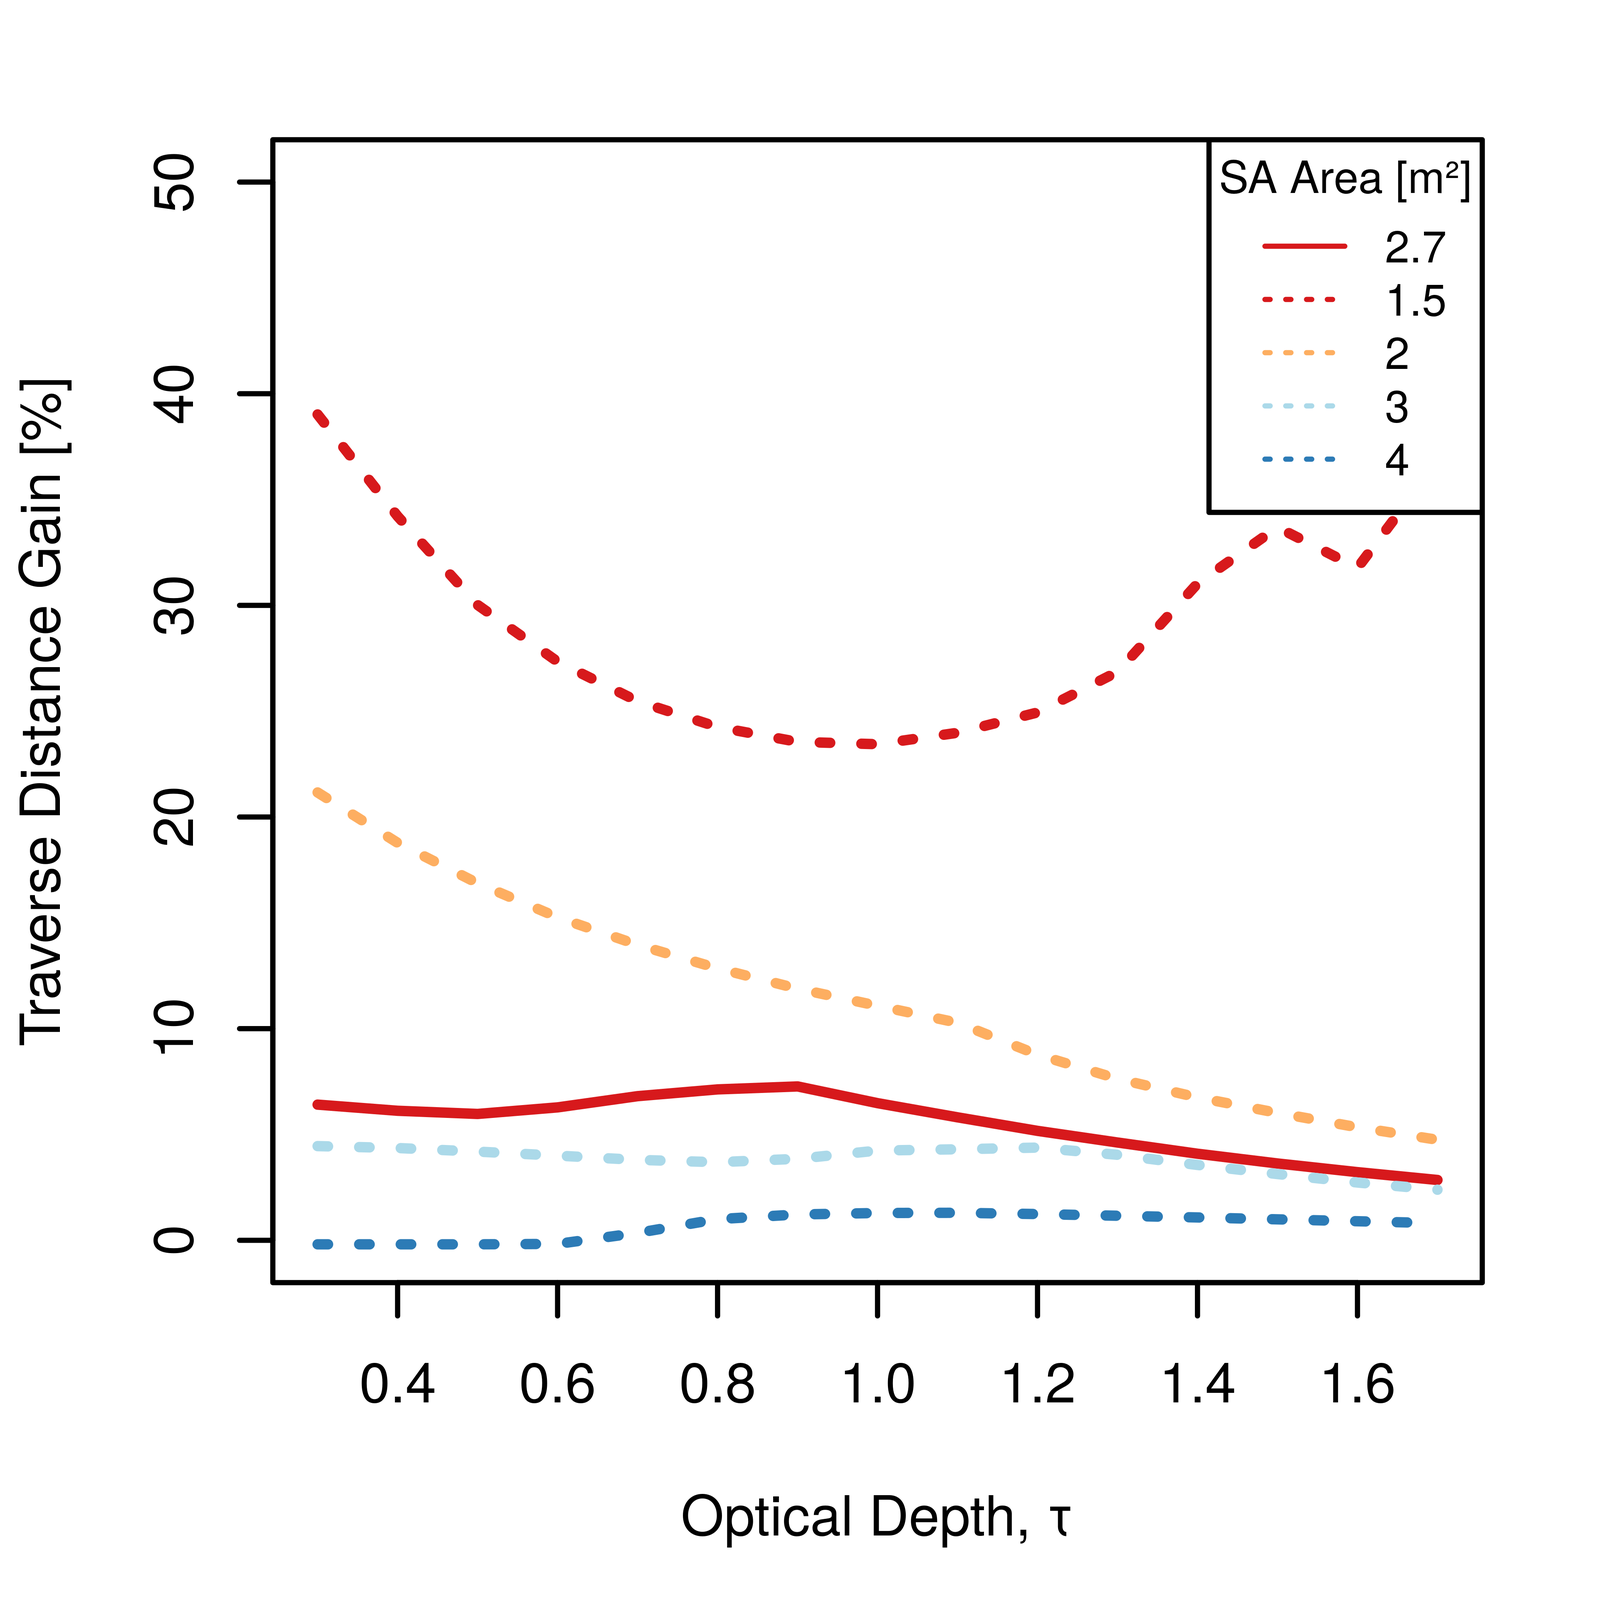
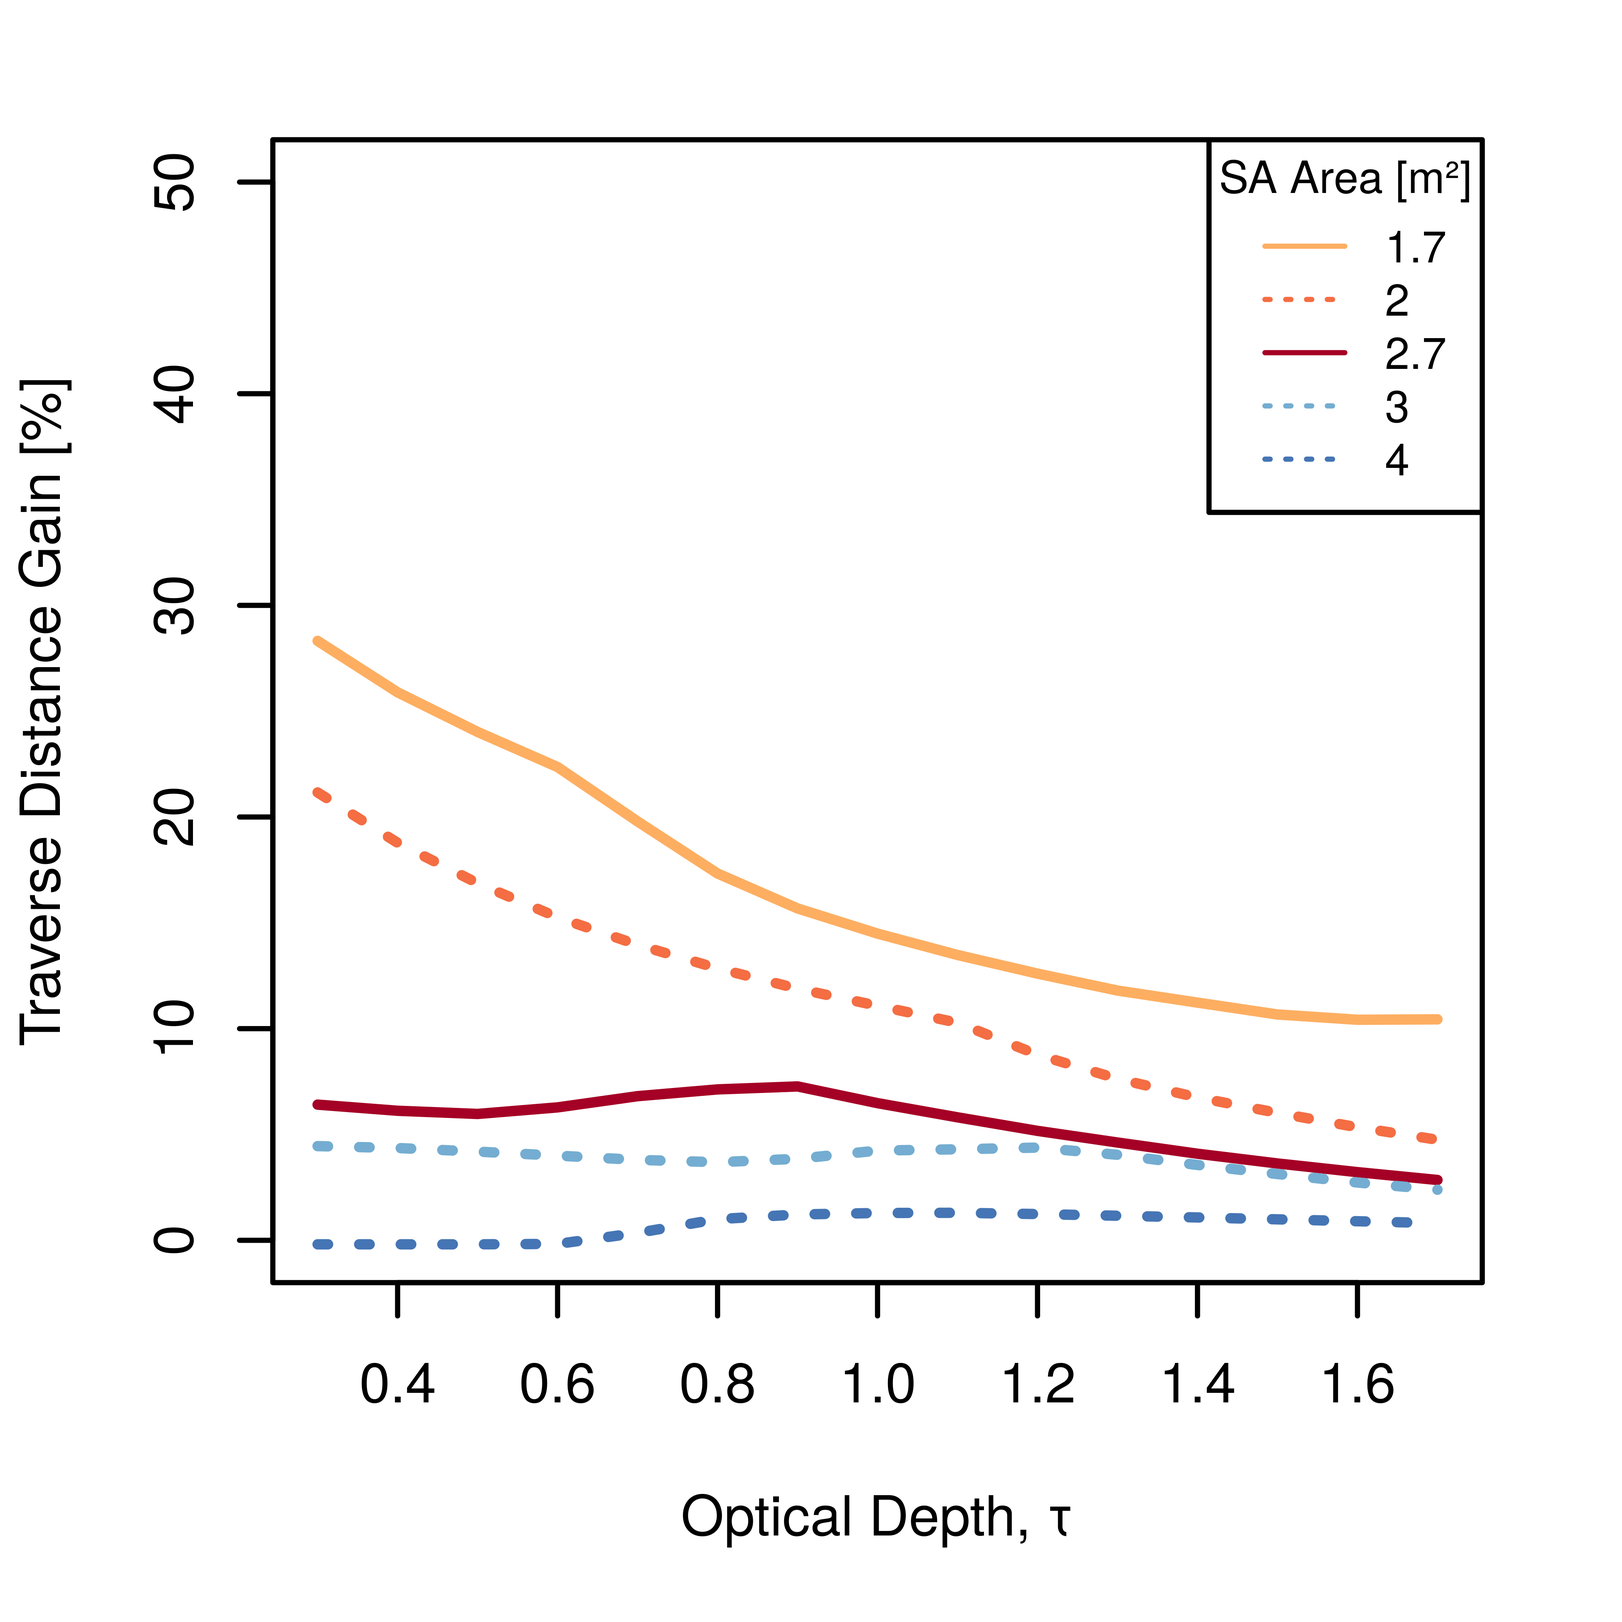
Solar array sizing

diff --git a/sections/design/solar-array/index.tex b/sections/design/solar-array/index.tex
@@ -23,7 +23,7 @@ where $E$ becomes the energy required by the rover on that Sol and $H_{h}$ the w
 
 The required solar cell coverage area at Iani Chaos was thus determined:
 \begin{align}
-  \label{calc:solar_cell_area_iani_chaos}
+  \label{calc:solar_cell_area_iani_chaos_traverse}
   A_{iani} &= \frac{E_{req}^{worst}}{\eta_{EOL} \cdot H_{\beta}^{worst} \cdot PR_{EOL}}\\
            &= \frac{775}{0.22 \cdot 2479 \cdot 0.62}\\
            &= \SI{2.29}{m^{2}}
@@ -31,7 +31,7 @@ The required solar cell coverage area at Iani Chaos was thus determined:
 
 and at Ismenius Cavus:
 \begin{align}
-  \label{calc:solar_cell_area_ismenius_cavus}
+  \label{calc:solar_cell_area_ismenius_cavus_traverse}
   A_{ismenius} &= \frac{E_{req}^{worst}}{\eta_{EOL} \cdot H_{\beta}^{worst} \cdot PR_{EOL}}\\
                &= \frac{750}{0.22 \cdot 1345 \cdot 0.62}\\
                &= \SI{4.09}{m^{2}}
@@ -59,8 +59,7 @@ The \ref{itm:con:daylight_traverse} constraint imposed an upper limit to the max
 
 At Ismenius Cavus, the excess energy problem was further pronounced than in Iani Chaos. As seen in the scenario plotted in Figure \ref{fig:plot:sub:iani-chaos-max-traverse-durations}, an inclined \ac{SA} surface was only relevant during the global dust storm season with a dusty atmosphere of $\tau = 1$. This negligeable advantage resulted in the limited \SI{1.39}{\percent} traverse distance gain with $\beta_{best}$ that was noted earlier.
 
-The \ac{SA} sizing approach using Equations \ref{calc:solar_cell_area_iani_chaos} and \ref{calc:solar_cell_area_ismenius_cavus} had to be re-evaluated towards a solution that resulted in significant gains with $\beta_{best}$, bot in terms of \ac{SA} area reduction and in attainable traverse distances when compared to hose obtained from a horizontal \ac{SA} surface.
-
+The \ac{SA} sizing using Equations \ref{calc:solar_cell_area_iani_chaos_traverse} and \ref{calc:solar_cell_area_ismenius_cavus_traverse} had to be approached differently to achieve significant gains with $\beta_{best}$ over a horizontal \ac{SA} surface, both in terms of \ac{SA} area reduction and in attainable traverse distances. Lack of appreciable distance coverage gains with $\beta_{best}$ lies in the optical depths that were used to determine $H_{\beta}^{worst}$ with $\tau = 1$. For high $\tau$ factors, $H_{\beta}^{worst} \approx H_{h}^{worst}$ due to light scattering by airborn Martian dust. This was previously observed in Figure \ref{fig:plot:insolation-ls}, where diffuse insolation was already the largest component contributing to global insolation at $\tau = 1$. Inclined \ac{SA} surface yield little to no benefits over horizontal surfaces when light is mostly diffuse.
 
 \begin{figure}[h]
 \captionsetup[subfigure]{justification=centering}
@@ -74,18 +73,18 @@ The \ac{SA} sizing approach using Equations \ref{calc:solar_cell_area_iani_chaos
     %% the figures
     \begin{subfigure}[t]{\subfigureWidth}
         \centering
-        \includegraphics[height=\graphicsHeight]{sections/design/solar-array/plots/ianichaos-daily-generated-energy.png}
+        \includegraphics[height=\graphicsHeight]{sections/design/solar-array/plots/ianichaos-daily-generated-energy-for-sa-area-27m2.png}
         \subcaption{Generated Energy}
         \label{fig:plot:sub:iani-chaos-generated-energy}
     \end{subfigure}\hfill
     \begin{subfigure}[t]{\subfigureWidth}
         \centering
-        \includegraphics[height=\graphicsHeight]{sections/design/solar-array/plots/ianichaos-75w-max-traverse-durations.png}
+        \includegraphics[height=\graphicsHeight]{sections/design/solar-array/plots/ianichaos-75w-max-traverse-durations-for-sa-area-27m2.png}
   		\subcaption{Maximum Traverse Durations}
 		\label{fig:plot:sub:iani-chaos-max-traverse-durations}
 	\end{subfigure}\\[0.8ex]
     \caption[Generated energy and maxium achievable flat terrain traverse durations at Iani Chaos]
-            {Generated energy and maxium achievable flat terrain traverse duration at Iani Chaos. Optical depth  $\tau = 1$ was used for global dust storm season ($\SI{185}{\degree} \leq L_{s} \leq \SI{315}{\degree}$) and $\tau = 0.4$ for the remainder of the year. The \textit{available daylight traverse time} corresponds to the amount of daylight hours left in a \textit{Traverse Sol} after subtracting the time taken by non-Traverse modes: \textit{Idle - Day}, \textit{\ac{DTE} Communication}, \textit{Science Stop - Short}, and \textit{Optimal Pose}. The maximum traverse durations for \ac{SA} horizontal do not consider the \textit{Optimal Pose} mode.}
+            {Generated energy and maxium achievable flat terrain traverse duration at Iani Chaos with \ac{SA} area = \SI{2.7}{m^{2}}. Optical depth  $\tau = 1$ was used for global dust storm season ($\SI{185}{\degree} \leq L_{s} \leq \SI{315}{\degree}$) and $\tau = 0.4$ for the remainder of the year. The \textit{available daylight traverse time} corresponds to the amount of daylight hours left in a \textit{Traverse Sol} after subtracting the time taken by non-Traverse modes: \textit{Idle - Day}, \textit{\ac{DTE} Communication}, \textit{Science Stop - Short}, and \textit{Optimal Pose}. The maximum traverse durations for \ac{SA} horizontal do not consider the \textit{Optimal Pose} mode.}
     \label{fig:plot:iani-chaos-generated-energy-and-max-traverse-durations}
 \vspace{-2ex}
 \end{figure}
@@ -102,22 +101,44 @@ The \ac{SA} sizing approach using Equations \ref{calc:solar_cell_area_iani_chaos
     %% the figures
     \begin{subfigure}[t]{\subfigureWidth}
         \centering
-        \includegraphics[height=\graphicsHeight]{sections/design/solar-array/plots/ismeniuscavus-daily-generated-energy.png}
+        \includegraphics[height=\graphicsHeight]{sections/design/solar-array/plots/ismeniuscavus-daily-generated-energy-for-sa-area-48m2.png}
         \subcaption{Generated Energy}
         \label{fig:plot:sub:ismenius-cavus-generated-energy}
     \end{subfigure}\hfill
     \begin{subfigure}[t]{\subfigureWidth}
         \centering
-        \includegraphics[height=\graphicsHeight]{sections/design/solar-array/plots/ismeniuscavus-75w-max-traverse-durations.png}
+        \includegraphics[height=\graphicsHeight]{sections/design/solar-array/plots/ismeniuscavus-75w-max-traverse-durations-for-sa-area-48m2.png}
   		\subcaption{Maximum Traverse Durations}
 		\label{fig:plot:sub:ismenius-cavus-max-traverse-durations}
 	\end{subfigure}\\[0.8ex]
     \caption[Generated energy and maxium achievable flat terrain traverse durations at Ismenius Cavus]
-            {Generated energy and maxium achievable flat terrain traverse duration at Ismenius Cavus. The same considerations were taken as in Figure \ref{fig:plot:iani-chaos-generated-energy-and-max-traverse-durations}.}
+            {Generated energy and maxium achievable flat terrain traverse duration at Ismenius Cavus with \ac{SA} area = \SI{4.8}{m^{2}}. The same considerations were taken as in Figure \ref{fig:plot:iani-chaos-generated-energy-and-max-traverse-durations}.}
     \label{fig:plot:ismenius-cavus-generated-energy-and-max-traverse-durations}
 \vspace{-2ex}
 \end{figure}
 
+\clearpage
+\ac{SA} sizes of \SI{2.7}{m^{2}} at Iani Chaos and \SI{4.8}{m^{2}} at Ismenius Cavus resulted in total attainable distance coverages of \SI{64}{\kilo\meter} and \SI{68}{\kilo\meter} of flat traverses within one \ac{MY}. These distances exceeded by over threefolds the \ref{itm:req:total_distance_flat_terrain} requirement of \SI{20}{\kilo\meter}. $E_{req}^{worst}$ was changed from energy required for the worst case \textit{Traverse Sol} to energy required for a \textit{Hibernation Sol}. To attain satisfying results the solar power draw required by the \textit{Hibernation mode} needed to be reduced from \SI{18}{\watt} to \SI{17}{\watt} at Iani Chaos and from \SI{18}{\watt} to \SI{15}{\watt} at Ismenius Cavus. Introducing \acp{RHU} will be necessary should these revised solar power requirements be unachievable. A single \ac{RHU} provides approximately \SI{1}{\watt} of heat thus one \ac{RHU} would be required at Iani Chaos and three at Ismenius Cavus. After taking into account a \SI{20}{percent} system margin, $E_{req}^{worst}$ became \SI{490}{\watt\hour} for a \textit{Hibernation Sol} at Iani Chaos and \SI{432}{\watt\hour} at Ismenius Cavus. Revisting Equation \ref{eq:solar_cell_coverage_area} resulted in the following solar cell coverage areas:
+
+
+\begin{align}
+  \label{calc:solar_cell_area_iani_chaos_hibernation}
+  A_{iani} &= \frac{E_{req}^{worst}}{\eta_{EOL} \cdot H_{\beta}^{worst} \cdot PR_{EOL}}\\
+           &= \frac{490}{0.22 \cdot 2479 \cdot 0.62}\\
+           &= \SI{1.45}{m^{2}}
+\end{align}
+
+\begin{align}
+  \label{calc:solar_cell_area_ismenius_cavus_hibernation}
+  A_{ismenius} &= \frac{E_{req}^{worst}}{\eta_{EOL} \cdot H_{\beta}^{worst} \cdot PR_{EOL}}\\
+               &= \frac{432}{0.22 \cdot 1345 \cdot 0.62}\\
+               &= \SI{2.35}{m^{2}}
+\end{align}
+
+After considering \ref{itm:ass:packing_efficiency}, the \ac{SA} area were \SI{1.7}{m^{2}} at Iani Chaos with a mass of \SI{6.3}{\kilo\gram} and \SI{2.8}{m^{2}} at Ismenius Cavus with a mass of  \SI{10.4}{\kilo\gram}. The \ref{itm:req:total_distance_flat_terrain} requirement remained satisfied with
+a maxmium flat traverse distance coverage of \SI{21}{\kilo\meter} at Iani Chaos and \SI{48}{\kilo\meter} at Ismenius Cavus. Figure \ref{fig:plot:flat-traverse-gains-for-different-sa-area} compares the gains in flat traverse distance coverage for different \ac{SA} sizes and optical depths so that the relationship between \ac{SA} area and benefits of solar tracking may be further appreciated. At Iani Chaos, a \SI{26}{\percent} gain in flat traverse distance coverage was achieved with a $\beta_{best}$ inclined surface during a clear day with $\tau = 0.4$. On a dusty day with $\tau = 1$, this gain was still significant at \SI{14}{\percent}. At Ismenius cavus, $\tau = 0.4$ and $\tau = 1$ gains are \SI{21}{\percent} and \SI{9}{\percent}, respectively. The maximum daily traverse durations attainable at both sites with their respective \ac{SA} sizes are shown in Figure \ref{fig:plot:final-maximum-traverse-durations-at-missions-sites}.
+
+
 \begin{figure}[h]
 \captionsetup[subfigure]{justification=centering}
 \vspace{-2ex}
@@ -128,59 +149,51 @@ The \ac{SA} sizing approach using Equations \ref{calc:solar_cell_area_iani_chaos
     %% kill hyper-link highlighting
     \hypersetup{hidelinks=true}%
     %% the figures
-    \begin{subfigure}[t]{\subfigureWidth}
-        \centering
-        \includegraphics[height=\graphicsHeight]{sections/design/solar-array/plots/ianichaos-75w-traverse-gains-for-27m2-sa-area.png}
-        \subcaption{\ac{SA} area = \SI{2.7}{\meter\squared}}
-        \label{fig:plot:sub:iani-chaos-flat-traverse-gains-for-initial-sa-area}
-    \end{subfigure}\hfill
     \begin{subfigure}[t]{\subfigureWidth}
         \centering
         \includegraphics[height=\graphicsHeight]{sections/design/solar-array/plots/ianichaos-75w-traverse-gains-for-different-sa-areas.png}
-  		\subcaption{For different \ac{SA} areas}
-		\label{fig:plot:sub:iani-chaos-flat-traverse-gains-for-different-sa-area}
-	\end{subfigure}\\[0.8ex]
-    \caption[Flat traverse distance gains at Iani Chaos]
-            {Flat traverse distance gains at Iani Chaos.}
-    \label{fig:plot:iani-chaos-flat-traverse-gains}
-\vspace{-2ex}
-\end{figure}
-
-
-
-
-\begin{figure}[h]
-\captionsetup[subfigure]{justification=centering}
-\vspace{-2ex}
-	\centering
-    %% setup sizes
-    \setlength{\subfigureWidth}{0.50\textwidth}
-    \setlength{\graphicsHeight}{80mm}
-    %% kill hyper-link highlighting
-    \hypersetup{hidelinks=true}%
-    %% the figures
-    \begin{subfigure}[t]{\subfigureWidth}
-        \centering
-        \includegraphics[height=\graphicsHeight]{sections/design/solar-array/plots/ismeniuscavus-75w-traverse-gains-for-48m2-sa-area.png}
-        \subcaption{\ac{SA} area = \SI{4.8}{\meter\squared}}
-        \label{fig:plot:sub:ismenius-chaos-flat-traverse-gains-for-initial-sa-area}
+  		\subcaption{Iani Chaos, \ac{SA} area = \SI{1.7}{m^{2}}}
+		\label{fig:plot:sub:ismenius-chaos-flat-traverse-gains-for-different-sa-area}
     \end{subfigure}\hfill
     \begin{subfigure}[t]{\subfigureWidth}
         \centering
         \includegraphics[height=\graphicsHeight]{sections/design/solar-array/plots/ismeniuscavus-75w-traverse-gains-for-different-sa-areas.png}
-  		\subcaption{For different \ac{SA} areas}
-		\label{fig:plot:sub:ismenius-chaos-flat-traverse-gains-for-different-sa-area}
+  		\subcaption{Ismenius Cavus, \ac{SA} area = \SI{2.8}{m^{2}}}
+		\label{fig:plot:sub:iani-chaos-flat-traverse-gains-for-different-sa-area}
 	\end{subfigure}\\[0.8ex]
-    \caption[Flat traverse distance gains at Ismnenius Chaos]
-            {Flat traverse distance gains at Ismnenius Chaos.}
-    \label{fig:plot:ismenius-chaos-flat-traverse-gains}
+    \caption[Flat traverse distance gains at Iani Chaos and Ismenius Cavus for different \ac{SA} sizes]
+            {Flat traverse distance gains at Iani Chaos and Ismenius Cavus for different \ac{SA} sizes.}
+    \label{fig:plot:flat-traverse-gains-for-different-sa-area}
 \vspace{-2ex}
 \end{figure}
 
-
-\todo[inline]{\textbf{TODO:} Size SA with hibernation power budget. Reduce Hibernation mode power draw.}
-
-%\label{itm:req:total_distance_flat_terrain}
+\begin{figure}[h]
+\captionsetup[subfigure]{justification=centering}
+\vspace{-2ex}
+	\centering
+    %% setup sizes
+    \setlength{\subfigureWidth}{0.50\textwidth}
+    \setlength{\graphicsHeight}{80mm}
+    %% kill hyper-link highlighting
+    \hypersetup{hidelinks=true}%
+    %% the figures
+    \begin{subfigure}[t]{\subfigureWidth}
+        \centering
+        \includegraphics[height=\graphicsHeight]{sections/design/solar-array/plots/ianichaos-75w-max-traverse-durations-for-sa-area-17m2.png}
+  		\subcaption{Iani Chaos, \ac{SA} area = \SI{1.7}{m^{2}}}
+		\label{fig:plot:sub:final-maximum-traverse-durations-iani-chaos}
+    \end{subfigure}\hfill
+    \begin{subfigure}[t]{\subfigureWidth}
+        \centering
+        \includegraphics[height=\graphicsHeight]{sections/design/solar-array/plots/ismeniuscavus-75w-max-traverse-durations-for-sa-area-28m2.png}
+  		\subcaption{Ismenius Cavus, \ac{SA} area = \SI{2.8}{m^{2}}}
+		\label{fig:plot:sub:final-maximum-traverse-durations-ismenius-cavus}
+	\end{subfigure}\\[0.8ex]
+    \caption[Maximum traverse durations at Iani Chaos and Ismenius Cavus]
+            {Maximum traverse durations at Iani Chaos and Ismenius Cavus.}
+    \label{fig:plot:final-maximum-traverse-durations-at-missions-sites}
+\vspace{-2ex}
+\end{figure}
 
 \clearpage
 \subsubsection{Battery}

diff --git a/sections/mars-solar-energy/solar-radiation/index.tex b/sections/mars-solar-energy/solar-radiation/index.tex
@@ -174,7 +174,7 @@ Diurnal irradiance profiles at Endaveour Crater are presented in Figure \ref{fig
 
 Solar insolation is the amount solar radiation incident on a planetary surface during a time period. It is expressed in \si{Whm^{-2}} and obtained by integrating the equations of irradiance over a time period between $\omega_1$ and $\omega_2$. Thus, insolation on a horizontal surface at the top of Mars atmosphere, denoted as $I_{obh}$, is obtained by integrating Equation \ref{eq:G_h_2} of $G_{obh}$.
 
-Global, beam, and diffuse insolations on a horizontal Mars surface are denoted as $I_{h}$, $I_{bh}$, and $I_{dh}$ respectively. Their values are obtained by integrating \ref{eq:G_h_2} for $I_{h}$ and \ref{eq:G_bh} for $I_{bh}$. Diffuse insolation $I_{dh}$ is obtained through the same relationship presented in Equation \ref{eq:G_h_1}. The variation of insolation as a function of $L_{s}$ for different levels of atmospheric opacities are illustrated in Figure \ref{fig:plot:insolation-ls}. Evidently, the insolation curves peak at the perihelion with $L_{s} = \SI{248}{\degree}$ and reach their lowest during the aphelion with $L_{s} = \SI{71}{\degree}$. Interestingly, diffuse insolation is already the largest component contributing to the global insolation at $\tau = 1$ and, on a dusty day at $\tau = 3$, global insolation is mostly diffuse.
+Global, beam, and diffuse insolations on a horizontal Mars surface are denoted as $I_{h}$, $I_{bh}$, and $I_{dh}$ respectively. Their values are obtained by integrating \ref{eq:G_h_2} for $I_{h}$ and \ref{eq:G_bh} for $I_{bh}$. Diffuse insolation $I_{dh}$ is obtained through the same relationship presented in Equation \ref{eq:G_h_1}. The variation of insolation as a function of $L_{s}$ for different levels of atmospheric opacities are illustrated in Figure \ref{fig:plot:insolation-ls}. Evidently, the insolation curves peak at the perihelion with $L_{s} = \SI{248}{\degree}$ and reach their lowest during the aphelion with $L_{s} = \SI{71}{\degree}$. Due to light scattering by airborn Martian dust \citemarsenv{Merikallio2013}, diffuse insolation is already the largest component contributing to the global insolation at $\tau = 1$. On a dusty day at $\tau = 3$, global insolation is mostly diffuse.
 
 \begin{figure}[h]
 \captionsetup[subfigure]{justification=centering}

diff --git a/sections/design/power-budget/index.tex b/sections/design/power-budget/index.tex
@@ -154,7 +154,7 @@ These worst-case reference Sols were not considered in \ac{SA} sizing. Regardles
 
 \subsubsection{Hibernation}
 \label{sec:Design:PowerBudget:TraversePowerBudget:Hibernation}
-The power budget for the reference \textit{Hibernation Sol} is shown in Table \ref{tab:hibernation-sol-power-budget}. The \SI{18}{\watt} power draw was taken from \citeother{CDF2014}. No system margins are applied for this reference Sol.
+The power budget for the reference \textit{Hibernation Sol} is shown in Table \ref{tab:hibernation-sol-power-budget}. The \SI{18}{\watt} power draw was taken from \citeother{CDF2014}.
 
 \input{sections/design/power-budget/tables/power-budget-hibernation-sol.tex}
 

diff --git a/sections/design/power-budget/tables/power-budget-hibernation-sol.tex b/sections/design/power-budget/tables/power-budget-hibernation-sol.tex
@@ -10,5 +10,6 @@
 \multicolumn{1}{|l|}{\textbf{Hibernation - Day}} & 18 & 720 & 216 & 720 & 216 \\ \hline
 \multicolumn{1}{|l|}{\textbf{Hibernation - Night}} & 18 & 720 & 216 & 720 & 216 \\ \hline
 \multicolumn{1}{|r|}{\textbf{Total}} & \textbf{36} & \textbf{1440} & \textbf{432} & \textbf{1440} & \textbf{432} \\ \hline
+\multicolumn{1}{|r|}{\textbf{Total +20\% System Margin}} & \textbf{43} & - & \textbf{518} & - & \textbf{518} \\ \hline
 \end{tabular}
 \end{table}

diff --git a/sections/acronyms.tex b/sections/acronyms.tex
@@ -43,6 +43,8 @@
 \acro{PLI}{Payload Item}
 \acro{PR}{Performance Ratio}
 \acro{PV}{Photovoltaic}
+\acro{RHU}{Radioisotope Heater Unit}
+\acrodefplural{RHU}[RHUs]{Radioisotope Heater Units}
 \acro{ROI}{Region of Interest}
 \acro{SA}{Solar Array}
 \acro{UHF}{Ultra High Frequency}
